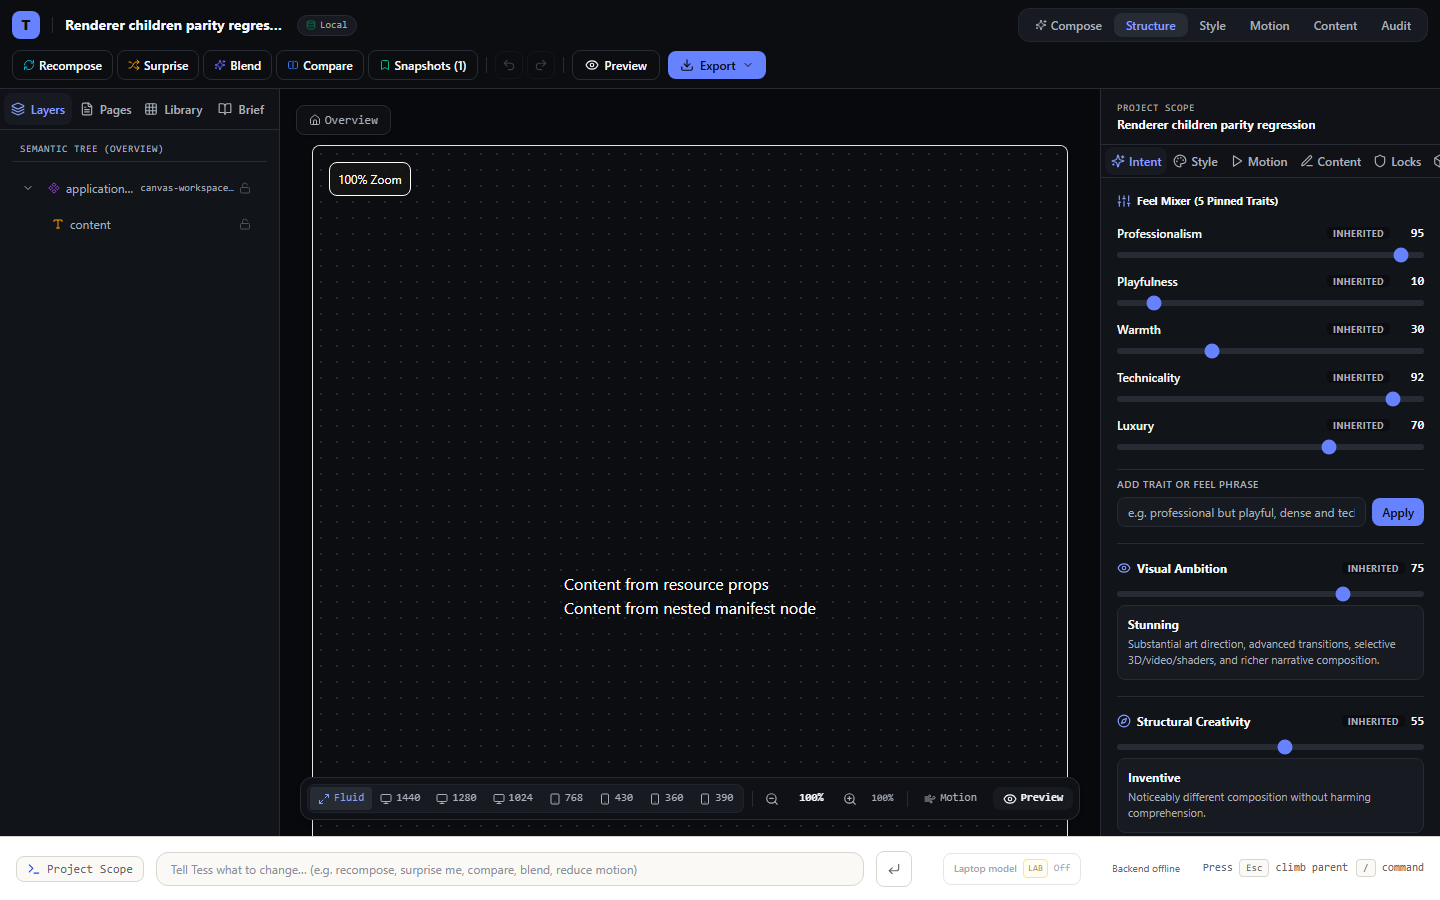
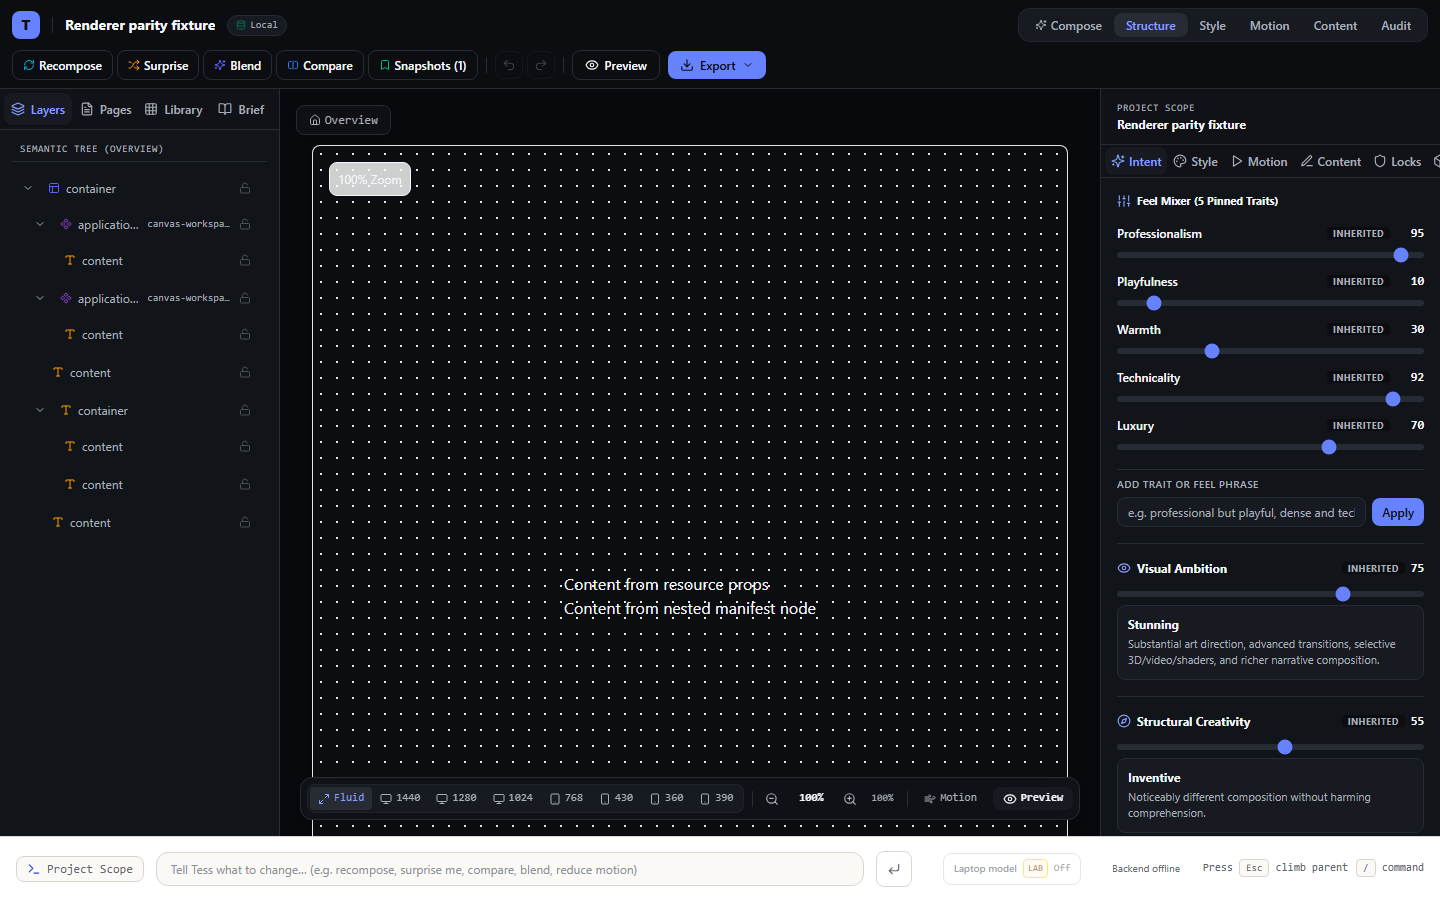
fix(exporter): preserve responsive node strategies

diff --git a/tests/e2e/renderer-children-parity.spec.ts b/tests/e2e/renderer-children-parity.spec.ts
@@ -2,9 +2,9 @@ import { expect, test } from '@playwright/test';
 import { mkdirSync } from 'node:fs';
 import path from 'node:path';
 import type { ProjectManifest } from '@tessellate/schemas';
-import { validProjectFixture } from '../../packages/schemas/src/fixtures/valid-project.js';
+import { createRendererParityProject } from '../../packages/testing/src/renderer-parity-fixture.js';
 
-test('Workbench preserves both resource prop children and nested manifest children', async ({ page }) => {
+test('Workbench renders the shared semantic parity fixture in canvas and Preview', async ({ page }) => {
   const consoleErrors: string[] = [];
   const failedRequests: string[] = [];
   page.on('pageerror', (error) => consoleErrors.push(error.message));
@@ -16,26 +16,7 @@ test('Workbench preserves both resource prop children and nested manifest childr
     if (response.status() >= 400) failedRequests.push(`${response.status()} ${response.url()}`);
   });
 
-  const manifest = JSON.parse(JSON.stringify(validProjectFixture)) as ProjectManifest;
-  manifest.id = 'renderer-children-parity-regression';
-  manifest.name = 'Renderer children parity regression';
-  manifest.locks = [];
-  manifest.screens[0]!.rootNode = {
-    id: 'canvas-shell-with-two-child-sources',
-    nodeType: 'component',
-    semanticRole: 'application-shell',
-    resourceRef: { id: 'res_block_canvas_workspace_shell', slug: 'canvas-workspace-shell', version: '1.0.0' },
-    props: { children: 'Content from resource props' },
-    slots: {},
-    children: [{
-      id: 'nested-content-node',
-      nodeType: 'element',
-      semanticRole: 'content',
-      props: { children: 'Content from nested manifest node' },
-      slots: {},
-      children: [],
-    }],
-  };
+  const manifest = createRendererParityProject();
 
   await page.addInitScript((savedManifest: ProjectManifest) => {
     const json = JSON.stringify(savedManifest);
@@ -44,7 +25,12 @@ test('Workbench preserves both resource prop children and nested manifest childr
   }, manifest);
 
   await page.goto(`/workbench?project=${manifest.id}`);
-  const canvas = page.locator('[data-node-id="canvas-shell-with-two-child-sources"]');
+  const canvas = page.locator('[data-testid="workbench-canvas"]');
+  await expect(canvas.locator('[data-node-id="parity-resource-prop-children"]')).toContainText('Content from resource props');
+  await expect(canvas.locator('[data-node-id="parity-resource-prop-children"]')).toContainText('Content from nested manifest node');
+  await expect(canvas.locator('[data-node-id="parity-resource-slot-children"]')).toContainText('Content from declared resource slot');
+  await expect(canvas.locator('[data-node-id="parity-resource-slot-children"]')).toContainText('Content from nested manifest node');
+  await expect(canvas.locator('[data-node-id="parity-mobile-omit"]')).toContainText('Content omitted on mobile');
   await expect(canvas).toContainText('Content from resource props');
   await expect(canvas).toContainText('Content from nested manifest node');
 
@@ -55,9 +41,17 @@ test('Workbench preserves both resource prop children and nested manifest childr
   await page.getByRole('button', { name: 'Preview' }).first().click();
   const preview = page.getByTestId('preview-modal');
   await expect(preview).toContainText('Content from resource props');
+  await expect(preview).toContainText('Content from declared resource slot');
   await expect(preview).toContainText('Content from nested manifest node');
   const previewScreenshot = path.resolve(process.cwd(), 'audit/evidence/step-07/after/preview-modal-children.png');
   await page.screenshot({ path: previewScreenshot, fullPage: true });
+
+  await page.getByRole('button', { name: 'Exit Preview' }).click();
+  await page.getByTestId('canvas-toolbar').getByRole('button', { name: '390' }).click();
+  await expect(canvas.locator('[data-node-id="parity-mobile-omit"]')).toHaveCount(0);
+  await expect(canvas.locator('[data-node-id="parity-resource-prop-children"]')).toBeVisible();
+  const mobileScreenshot = path.resolve(process.cwd(), 'audit/evidence/step-07/after/workbench-responsive-390.png');
+  await page.screenshot({ path: mobileScreenshot, fullPage: true });
 
   expect(consoleErrors).toEqual([]);
   expect(failedRequests).toEqual([]);
@@ -75,26 +69,7 @@ test('Workbench preserves declared resource slot content alongside nested manife
     if (response.status() >= 400) failedRequests.push(`${response.status()} ${response.url()}`);
   });
 
-  const manifest = JSON.parse(JSON.stringify(validProjectFixture)) as ProjectManifest;
-  manifest.id = 'renderer-slot-children-regression';
-  manifest.name = 'Renderer slot children regression';
-  manifest.locks = [];
-  manifest.screens[0]!.rootNode = {
-    id: 'canvas-shell-with-slot-and-nested-content',
-    nodeType: 'component',
-    semanticRole: 'application-shell',
-    resourceRef: { id: 'res_shell_canvas_workspace_shell', slug: 'canvas-workspace-shell', version: '1.0.0' },
-    props: {},
-    slots: { children: 'Content from declared resource slot' },
-    children: [{
-      id: 'nested-slot-content-node',
-      nodeType: 'element',
-      semanticRole: 'content',
-      props: { children: 'Content from nested manifest node' },
-      slots: {},
-      children: [],
-    }],
-  };
+  const manifest = createRendererParityProject();
 
   await page.addInitScript((savedManifest: ProjectManifest) => {
     const json = JSON.stringify(savedManifest);
@@ -102,7 +77,7 @@ test('Workbench preserves declared resource slot content alongside nested manife
     localStorage.setItem('tessellate_active_project', json);
   }, manifest);
   await page.goto(`/workbench?project=${manifest.id}`);
-  const canvas = page.locator('[data-node-id="canvas-shell-with-slot-and-nested-content"]');
+  const canvas = page.locator('[data-testid="workbench-canvas"] [data-node-id="parity-resource-slot-children"]');
   await expect(canvas).toBeAttached();
   await expect(canvas).toContainText('Content from declared resource slot');
   await expect(canvas).toContainText('Content from nested manifest node');

diff --git a/packages/exporter/src/__tests__/standalone-export-fidelity.test.ts b/packages/exporter/src/__tests__/standalone-export-fidelity.test.ts
@@ -6,6 +6,7 @@ import { execSync, spawn } from 'node:child_process';
 import { chromium } from '@playwright/test';
 import type { ProjectManifest } from '@tessellate/schemas';
 import { validProjectFixture } from '@tessellate/schemas';
+import { appendRendererParityNodes } from '@tessellate/testing';
 import { generateSourceTree } from '../source-tree.js';
 import '../node-disk-resolver.js';
 
@@ -275,7 +276,8 @@ describe('Requirement 8: Standalone Export Fidelity', () => {
   });
 
   it('builds standalone project with real pnpm install and verifies interactive execution in Playwright via vite preview', async () => {
-    const sourceTree = generateSourceTree(testProject);
+    const parityProject = appendRendererParityNodes(testProject);
+    const sourceTree = generateSourceTree(parityProject);
 
     // Create a temporary export directory
     const tempDir = fs.mkdtempSync(path.join(os.tmpdir(), 'tess-export-live-'));
@@ -341,10 +343,15 @@ describe('Requirement 8: Standalone Export Fidelity', () => {
       try {
         const page = await browser.newPage();
         const consoleErrors: string[] = [];
+        const failedRequests: string[] = [];
         page.on('console', (msg) => {
           if (msg.type() === 'error') {
             consoleErrors.push(msg.text());
           }
+        });
+        page.on('requestfailed', (request) => failedRequests.push(`${request.method()} ${request.url()}`));
+        page.on('response', (response) => {
+          if (response.status() >= 400) failedRequests.push(`${response.status()} ${response.url()}`);
         });
 
         await page.goto(`http://localhost:${port}`);
@@ -360,12 +367,31 @@ describe('Requirement 8: Standalone Export Fidelity', () => {
         expect(await page.getByText('Content from resource props').first().isVisible()).toBe(true);
         expect(await page.getByText('Content from nested manifest node').first().isVisible()).toBe(true);
 
+        const hiddenOnMobile = page.locator('[data-node-id="parity-mobile-omit"]');
+        const stackedOnMobile = page.locator('[data-node-id="parity-mobile-stack"]');
+        const collapsedOnMobile = page.locator('[data-node-id="parity-mobile-collapse"]');
+        expect(await hiddenOnMobile.isVisible()).toBe(true);
         const screenshotPath = path.resolve(process.cwd(), 'audit/evidence/step-07/after/standalone-export-children.png');
         fs.mkdirSync(path.dirname(screenshotPath), { recursive: true });
         await page.screenshot({ path: screenshotPath, fullPage: true });
 
+        await page.setViewportSize({ width: 390, height: 844 });
+        const hiddenOnMobileIsVisible = await hiddenOnMobile.isVisible();
+        if (hiddenOnMobileIsVisible) {
+          const beforeResponsiveFix = path.resolve(process.cwd(), 'audit/evidence/step-07/before/export-responsive-override-visible.png');
+          fs.mkdirSync(path.dirname(beforeResponsiveFix), { recursive: true });
+          await page.screenshot({ path: beforeResponsiveFix, fullPage: true });
+        }
+        expect(hiddenOnMobileIsVisible).toBe(false);
+        expect(await stackedOnMobile.evaluate((element) => getComputedStyle(element).flexDirection)).toBe('column');
+        expect(await collapsedOnMobile.evaluate((element) => getComputedStyle(element).overflowY)).toBe('hidden');
+
+        const responsiveScreenshot = path.resolve(process.cwd(), 'audit/evidence/step-07/after/standalone-export-responsive-390.png');
+        await page.screenshot({ path: responsiveScreenshot, fullPage: true });
+
         // 6. Assert no console errors
         expect(consoleErrors).toEqual([]);
+        expect(failedRequests).toEqual([]);
       } finally {
         await browser.close();
       }

diff --git a/packages/testing/src/renderer-parity-fixture.ts b/packages/testing/src/renderer-parity-fixture.ts
@@ -1,0 +1,105 @@
+import type { ProjectManifest, ProjectNode } from '@tessellate/schemas';
+import { validProjectFixture } from '@tessellate/schemas';
+
+function contentNode(id: string, text: string): ProjectNode {
+  return {
+    id,
+    nodeType: 'element',
+    semanticRole: 'content',
+    props: { children: text },
+    slots: {},
+    children: [],
+  };
+}
+
+/** Shared Workbench/export fixture for manifest-to-DOM semantic parity checks. */
+export function createRendererParityNodes(): ProjectNode[] {
+  return [
+    {
+      id: 'parity-resource-prop-children',
+      nodeType: 'component',
+      semanticRole: 'application-shell',
+      resourceRef: {
+        id: 'res_shell_canvas_workspace_shell',
+        slug: 'canvas-workspace-shell',
+        version: '1.0.0',
+      },
+      variant: 'expressive',
+      props: { children: 'Content from resource props' },
+      slots: {},
+      children: [contentNode('parity-prop-nested-child', 'Content from nested manifest node')],
+    },
+    {
+      id: 'parity-resource-slot-children',
+      nodeType: 'component',
+      semanticRole: 'application-shell',
+      resourceRef: {
+        id: 'res_shell_canvas_workspace_shell',
+        slug: 'canvas-workspace-shell',
+        version: '1.0.0',
+      },
+      variant: 'expressive',
+      props: {},
+      slots: { children: 'Content from declared resource slot' },
+      children: [contentNode('parity-slot-nested-child', 'Content from nested manifest node')],
+    },
+    {
+      id: 'parity-mobile-omit',
+      nodeType: 'element',
+      semanticRole: 'content',
+      responsiveOverrides: { strategy: 'omit-nonessential' },
+      props: { children: 'Content omitted on mobile' },
+      slots: {},
+      children: [],
+    },
+    {
+      id: 'parity-mobile-stack',
+      nodeType: 'element',
+      semanticRole: 'container',
+      responsiveOverrides: { strategy: 'stack' },
+      props: {},
+      slots: {},
+      children: [
+        contentNode('parity-stack-child-one', 'First stacked child'),
+        contentNode('parity-stack-child-two', 'Second stacked child'),
+      ],
+    },
+    {
+      id: 'parity-mobile-collapse',
+      nodeType: 'element',
+      semanticRole: 'content',
+      responsiveOverrides: { strategy: 'collapse' },
+      props: { children: 'Content with a collapsed mobile presentation' },
+      slots: {},
+      children: [],
+    },
+  ];
+}
+
+export function createRendererParityProject(): ProjectManifest {
+  const project = structuredClone(validProjectFixture);
+  const sourceScreen = project.screens[0]!;
+  project.id = 'renderer-parity-fixture';
+  project.name = 'Renderer parity fixture';
+  project.description = 'Shared fixture for Workbench and standalone export rendering checks.';
+  project.locks = [];
+  sourceScreen.rootNode = {
+    id: sourceScreen.rootNode.id,
+    nodeType: 'layout',
+    semanticRole: 'container',
+    props: {},
+    slots: {},
+    children: createRendererParityNodes(),
+  };
+
+  return project;
+}
+
+export function appendRendererParityNodes(project: ProjectManifest): ProjectManifest {
+  const augmented = structuredClone(project);
+  const firstScreen = augmented.screens[0];
+  if (!firstScreen) throw new Error('Renderer parity fixture requires at least one screen.');
+
+  firstScreen.rootNode.children.push(...createRendererParityNodes());
+  return augmented;
+}

diff --git a/packages/renderer/src/__tests__/renderer-parity.test.tsx b/packages/renderer/src/__tests__/renderer-parity.test.tsx
@@ -1,0 +1,35 @@
+import React from 'react';
+import { describe, expect, it } from 'vitest';
+import { renderToString } from 'react-dom/server';
+import { createRendererParityProject } from '@tessellate/testing';
+import { ManifestRenderer } from '../index.js';
+
+describe('renderer semantic parity fixture', () => {
+  const manifest = createRendererParityProject();
+  const screenId = manifest.screens[0]!.id;
+
+  it('keeps declared props, slots and nested nodes in desktop output', () => {
+    const html = renderToString(
+      <ManifestRenderer manifest={manifest} activeScreenId={screenId} context={{ viewport: 'desktop' }} />
+    );
+
+    expect(html).toContain('Content from resource props');
+    expect(html).toContain('Content from declared resource slot');
+    expect(html).toContain('Content from nested manifest node');
+    expect(html).toContain('Content omitted on mobile');
+    expect(html).toContain('First stacked child');
+    expect(html).toContain('Content with a collapsed mobile presentation');
+    expect(html).toContain('data-resource-variant="expressive"');
+  });
+
+  it('applies Workbench responsive strategies to the mobile render', () => {
+    const html = renderToString(
+      <ManifestRenderer manifest={manifest} activeScreenId={screenId} context={{ viewport: 'mobile' }} />
+    );
+
+    expect(html).not.toContain('Content omitted on mobile');
+    expect(html).toContain('Content from declared resource slot');
+    expect(html).toContain('flex flex-col gap-4 w-full');
+    expect(html).toContain('overflow-hidden max-h-48');
+  });
+});

diff --git a/packages/exporter/src/source-tree.ts b/packages/exporter/src/source-tree.ts
@@ -479,7 +479,11 @@ function renderNodeToJsx(
   const variantExpression=dna.visualMode==='adaptive'?`systemDark ? 'nocturne' : ${JSON.stringify(staticVariant ?? null)}`:JSON.stringify(staticVariant ?? null);
   const darkStyle=tokensToCssVariables(normalizeDesignTokens(dna,{tokenOverrides:tokens,activeMode:'dark'}));
   const styleExpression=dna.visualMode==='adaptive' && (node.dnaOverrides || node.tokenOverrides)?`systemDark ? ${JSON.stringify(darkStyle)} : ${JSON.stringify(localStyle)}`:JSON.stringify(localStyle);
-  const wrapperAttributes = `data-resource-variant={${variantExpression}} data-node-id={${JSON.stringify(node.id)}} data-semantic-role={${JSON.stringify(node.semanticRole)}} style={(${styleExpression}) as React.CSSProperties}`;
+  const responsiveStrategy = node.responsiveOverrides?.strategy;
+  const responsiveAttribute = ['stack', 'collapse', 'omit-nonessential'].includes(String(responsiveStrategy))
+    ? ` data-responsive-strategy={${JSON.stringify(responsiveStrategy)}}`
+    : '';
+  const wrapperAttributes = `data-resource-variant={${variantExpression}} data-node-id={${JSON.stringify(node.id)}} data-semantic-role={${JSON.stringify(node.semanticRole)}}${responsiveAttribute} style={(${styleExpression}) as React.CSSProperties}`;
   const indent = '  '.repeat(indentLevel);
   const className = (node.props['className'] as string) || '';
 

diff --git a/packages/renderer/src/layout-contract.ts b/packages/renderer/src/layout-contract.ts
@@ -17,6 +17,11 @@ export const MANIFEST_LAYOUT_CSS = `
 .tess-layout-main-content-scroll,.tess-layout-workspace-multi-pane,.tess-layout-grid-dashboard-container,.tess-layout-compound-workspace-pane,.tess-layout-split-workspace-columns{display:grid;gap:var(--tess-space-md,16px);align-items:start}
 .tess-layout-marketing-page{display:grid;gap:var(--tess-space-lg,24px)}
 .tess-layout-marketing-page>.tess-node{grid-column:1/-1}
+@container tess-screen (max-width:430px){
+ .tess-node[data-responsive-strategy="omit-nonessential"]{display:none!important}
+ .tess-node[data-responsive-strategy="stack"]{display:flex;flex-direction:column;gap:var(--tess-space-md,16px);width:100%}
+ .tess-node[data-responsive-strategy="collapse"]{overflow:hidden;max-height:12rem}
+}
 @container tess-screen (min-width:900px){
  .tess-layout-sidebar-shell{grid-template-columns:220px minmax(0,1fr)}
  .tess-layout-workspace-dock-shell{grid-template-columns:180px minmax(0,1fr)}

diff --git a/packages/testing/src/index.ts b/packages/testing/src/index.ts
@@ -1,2 +1,3 @@
 // Testing utilities, fixtures and mock data
 export const TESTING_VERSION = '0.1.0';
+export * from './renderer-parity-fixture.js';
